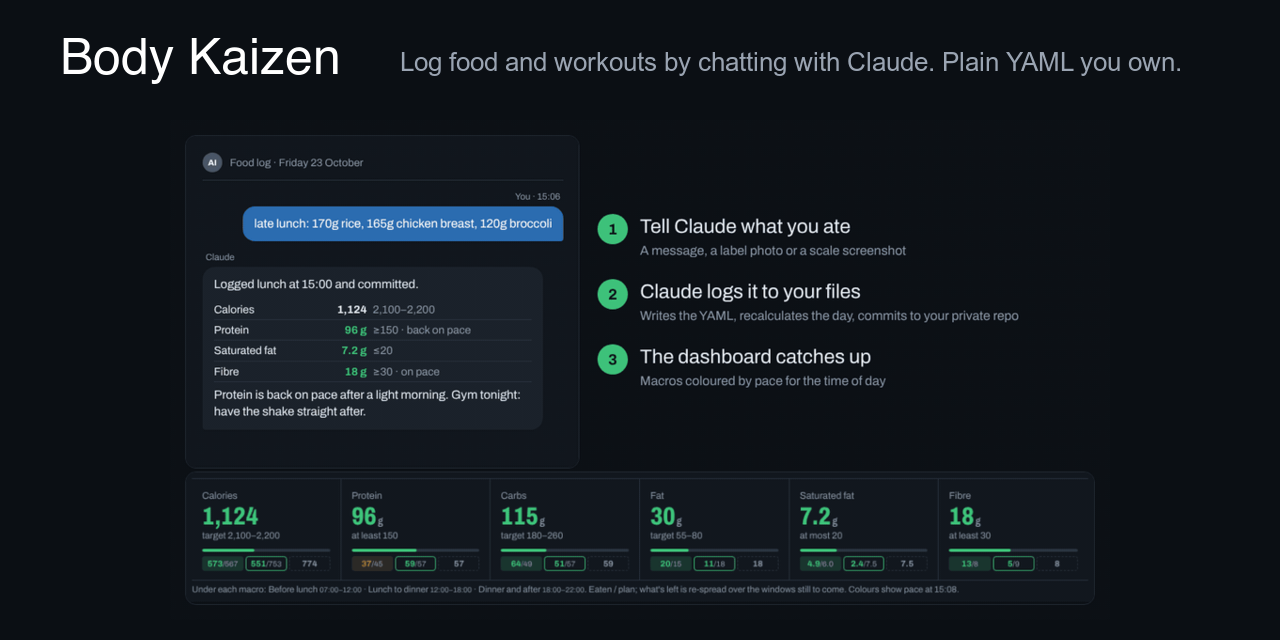
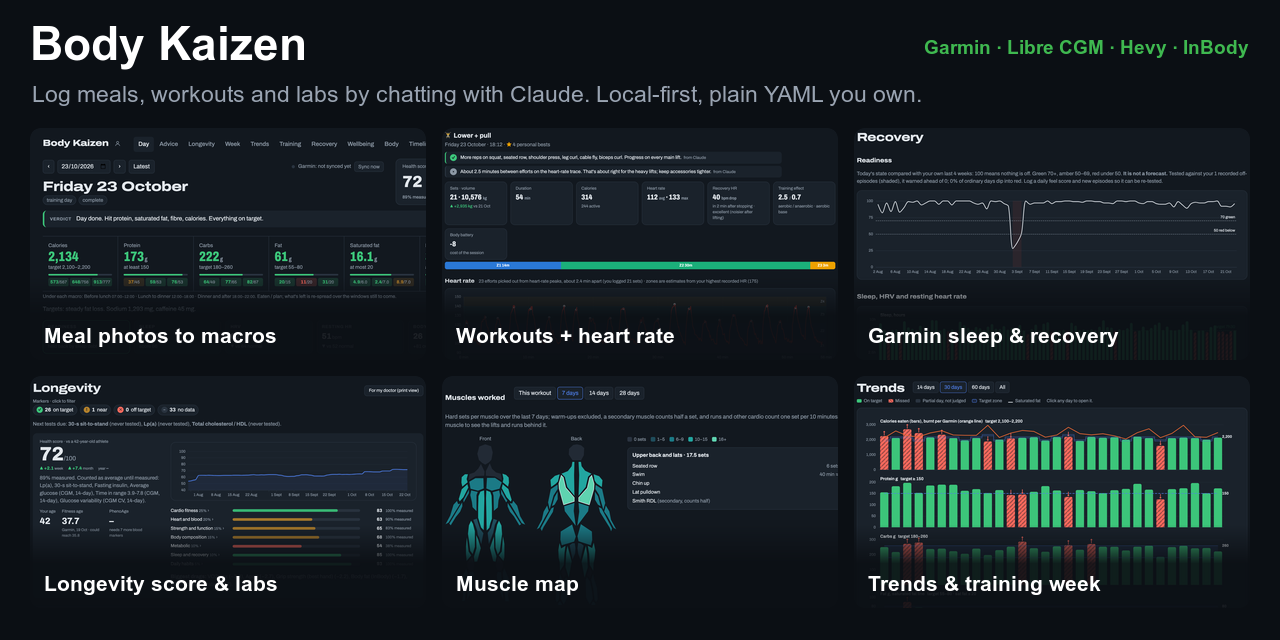
README: a "What's inside" feature grid; social preview as a feature collage (#19)
Six screenshot tiles near the top (meal photos to macros, workouts with
heart rate, Garmin recovery, longevity score, muscle map, trends and the
training week), plus one-line lists of the other features and of what it
works with. The social preview image becomes a collage of the same six.

Changed region(s): [[0.0312, 0.1875, 0.9688, 0.9375], [0.0, 0.0312, 0.9688, 0.1562], [0.6562, 0.1875, 0.7188, 0.2188]]

diff --git a/README.md b/README.md
@@ -16,13 +16,47 @@ Garmin, glucose and gym data, and shows how your day, week and months are going 
 
 ![You send a message, Claude logs it and replies with your totals, and the dashboard updates](docs/img/claude-loop.gif)
 
+## What's inside
+
+<table>
+<tr>
+<td width="33%" valign="top"><a href="#a-day-with-body-kaizen"><img src="docs/img/day.png" alt="The Day page"></a><br>
+<b>Meal photos to macros.</b> Photograph a plate or a label. Claude estimates portions and logs calories, protein,
+carbs, fat, saturated fat and fibre, paced through the day.</td>
+<td width="33%" valign="top"><a href="#a-day-with-body-kaizen"><img src="docs/img/workout.png" alt="A workout"></a><br>
+<b>Workouts with heart rate.</b> Hevy sets on the Garmin heart-rate trace with each effort marked, every lift
+against last time, and a progression plan for the next session.</td>
+<td width="33%" valign="top"><a href="#features"><img src="docs/img/recovery.png" alt="Recovery"></a><br>
+<b>Garmin recovery.</b> Sleep stages, HRV, resting heart rate, body battery and stress, synced automatically and
+rolled into a readiness score.</td>
+</tr>
+<tr>
+<td valign="top"><a href="#features"><img src="docs/img/longevity.png" alt="Longevity"></a><br>
+<b>Longevity score.</b> VO2 max, lipids, HbA1c, blood pressure, grip strength and body composition, each with
+target bands and a retest date, combined into one health score.</td>
+<td valign="top"><a href="#features"><img src="docs/img/muscle-map.png" alt="Muscle map"></a><br>
+<b>Muscle map.</b> Front and back diagrams shaded by hard sets per muscle, so the ones you never train stand
+out.</td>
+<td valign="top"><a href="#features"><img src="docs/img/trends.png" alt="Trends"></a><br>
+<b>Trends and a training week.</b> Every day coloured hit or miss against its targets, an activity calendar by
+calories burnt, and the next seven days laid out: gym, run or rest.</td>
+</tr>
+</table>
+
+**Also:** FreeStyle Libre glucose curves under every meal · blood test reports and InBody scans read from a photo
+or PDF · scale and blood-pressure screenshots · a day timeline from sleep to dinner · Claude's comments saved
+next to the numbers they're about.
+
+**Works with** Claude (or any AI assistant that can edit files) · Garmin Connect · FreeStyle Libre (LibreLinkUp) ·
+Hevy · InBody · any smart scale or blood-pressure app you can screenshot.
+
 > **Not medical advice, and no warranty.** Body Kaizen is a personal logging tool. Its scores, targets and
 > suggestions are rules of thumb, not a diagnosis or treatment plan. Integrations are unofficial, and you're
 > responsible for your own health decisions, accounts and data. Read the [Disclaimer](#disclaimer) before using it.
 
 ## Contents
 
-[Why](#why) · [How it works](#how-it-works) · [A day with Body Kaizen](#a-day-with-body-kaizen) ·
+[What's inside](#whats-inside) · [Why](#why) · [How it works](#how-it-works) · [A day with Body Kaizen](#a-day-with-body-kaizen) ·
 [Features](#features) · [Quick start](#quick-start-five-minutes) · [Getting data in](#getting-data-in-you-need-an-ai-assistant) ·
 [Setting up your assistant](#setting-up-your-ai-assistant) · [Practical kit](#practical-kit-whats-worth-having) · [Privacy in git](#keeping-your-data-private-in-git) · [Integrations](#integrations) · [Compared with](#compared-with-other-trackers) ·
 [FAQ](#faq) · [Roadmap](#roadmap) · [Disclaimer](#disclaimer)
